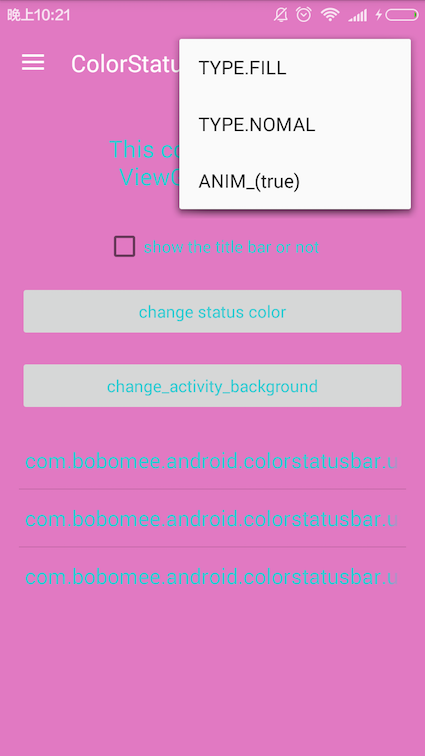
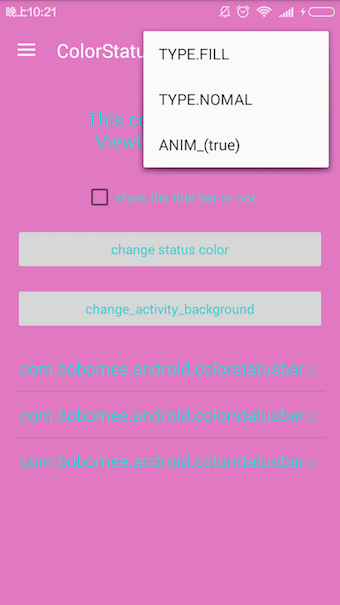
add alpha

diff --git a/colorstatus/src/main/java/com/bobomee/android/colorstatus/StatusBarUtils.java b/colorstatus/src/main/java/com/bobomee/android/colorstatus/StatusBarUtils.java
@@ -30,6 +30,7 @@ public class StatusBarUtils {
 
     private TYPE style = TYPE.NOMAL;
     private int color;
+    private int alpha;
 
     private ViewGroup root;
 
@@ -132,6 +133,11 @@ public class StatusBarUtils {
         return this;
     }
 
+    public StatusBarUtils setAlpha(int alpha) {
+        this.alpha = alpha;
+        return this;
+    }
+
     private void initStatusBar() {
 
         if (belowKitKat()) return;
@@ -140,13 +146,13 @@ public class StatusBarUtils {
             if (upL()) {
                 mActivity.getWindow().clearFlags(WindowManager.LayoutParams.FLAG_TRANSLUCENT_STATUS);
                 mActivity.getWindow().addFlags(WindowManager.LayoutParams.FLAG_DRAWS_SYSTEM_BAR_BACKGROUNDS);
-                mActivity.getWindow().setStatusBarColor(color);
+                mActivity.getWindow().setStatusBarColor(calculateStatusColor(color, alpha));
                 return;
             }
 
             if (upKitKat()) {
                 mActivity.getWindow().addFlags(WindowManager.LayoutParams.FLAG_TRANSLUCENT_STATUS);
-                View statusView = createStatusBarView(mActivity, color);
+                View statusView = createStatusBarView(mActivity, color, alpha);
                 //Prevent repeated additions
                 int c = root.getChildCount() - 1;
                 if (setMultipleColor(root, c)) return;
@@ -158,7 +164,7 @@ public class StatusBarUtils {
                 if (style == TYPE.NOMAL) {
                     mActivity.getWindow().addFlags(WindowManager.LayoutParams.FLAG_DRAWS_SYSTEM_BAR_BACKGROUNDS);
                     mActivity.getWindow().clearFlags(WindowManager.LayoutParams.FLAG_TRANSLUCENT_STATUS);
-                    mActivity.getWindow().setStatusBarColor(color);
+                    mActivity.getWindow().setStatusBarColor(calculateStatusColor(color, alpha));
                     return;
                 } else {
                     mActivity.getWindow().clearFlags(WindowManager.LayoutParams.FLAG_DRAWS_SYSTEM_BAR_BACKGROUNDS);
@@ -171,11 +177,11 @@ public class StatusBarUtils {
             }
 
             if (content instanceof MLinearLayout && style == TYPE.FILL) {
-                ((MLinearLayout) content).getChildAt(0).setBackgroundColor(color);
+                ((MLinearLayout) content).getChildAt(0).setBackgroundColor(calculateStatusColor(color, alpha));
                 return;
             }
 
-            View statusView = createStatusBarView(mActivity, color);
+            View statusView = createStatusBarView(mActivity, color, alpha);
             ViewGroup container = new MLinearLayout(mActivity);
             ((LinearLayout) container).setOrientation(LinearLayout.VERTICAL);
 
@@ -206,21 +212,36 @@ public class StatusBarUtils {
         }
     }
 
+    public int getColor() {
+        return color;
+    }
+
+    private static int calculateStatusColor(int color, int alpha) {
+        float a = 1 - alpha / 255f;
+        int red = color >> 16 & 0xff;
+        int green = color >> 8 & 0xff;
+        int blue = color & 0xff;
+        red = (int) (red * a + 0.5);
+        green = (int) (green * a + 0.5);
+        blue = (int) (blue * a + 0.5);
+        return 0xff << 24 | red << 16 | green << 8 | blue;
+    }
+
     private boolean setMultipleColor(ViewGroup view, int index) {
         View temp = view.getChildAt(index);
         if (null != temp && temp.getHeight() == getStatusBarHeight(mActivity)) {
-            temp.setBackgroundColor(color);
+            temp.setBackgroundColor(calculateStatusColor(color, alpha));
             return true;
         }
         return false;
     }
 
-    private View createStatusBarView(Activity activity, int color) {
+    private View createStatusBarView(Activity activity, int color, int alpha) {
         View statusBarView = new View(activity);
         LinearLayout.LayoutParams params = new LinearLayout.LayoutParams(ViewGroup.LayoutParams.MATCH_PARENT,
                 getStatusBarHeight(activity));
         statusBarView.setLayoutParams(params);
-        statusBarView.setBackgroundColor(color);
+        statusBarView.setBackgroundColor(calculateStatusColor(color, alpha));
         return statusBarView;
     }
 

diff --git a/app/src/main/java/com/bobomee/android/colorstatusbar/ui/BaseViewGroupDrawerLayout.java b/app/src/main/java/com/bobomee/android/colorstatusbar/ui/BaseViewGroupDrawerLayout.java
@@ -7,6 +7,7 @@ import android.widget.ArrayAdapter;
 import android.widget.CheckBox;
 import android.widget.CompoundButton;
 import android.widget.ListView;
+import android.widget.SeekBar;
 import android.widget.TextView;
 
 import com.bobomee.android.colorstatusbar.R;
@@ -22,6 +23,11 @@ public class BaseViewGroupDrawerLayout extends BaseBaseDrawerLayout implements A
 
     private CheckBox checkBox;
 
+    private SeekBar mSbChangeAlpha;
+    private TextView mTvStatusAlpha;
+
+    private int mAlpha = 112;
+
     protected String[] getListData() {
         return getResources().getStringArray(R.array.clz);
     }
@@ -31,6 +37,8 @@ public class BaseViewGroupDrawerLayout extends BaseBaseDrawerLayout implements A
         super.setContentView(layoutResID);
 
         listView = (ListView) findViewById(android.R.id.list);
+        mSbChangeAlpha = (SeekBar) findViewById(R.id.sb_change_alpha);
+        mTvStatusAlpha = (TextView) findViewById(R.id.tv_status_alpha);
 
         ArrayAdapter<String> arrayAdapter = new ArrayAdapter<String>(this,
                 R.layout.simple_list_item,
@@ -42,6 +50,27 @@ public class BaseViewGroupDrawerLayout extends BaseBaseDrawerLayout implements A
 
         checkBox = (CheckBox) findViewById(android.R.id.checkbox);
         checkBox.setOnCheckedChangeListener(this);
+
+        mSbChangeAlpha.setMax(255);
+        mSbChangeAlpha.setOnSeekBarChangeListener(new SeekBar.OnSeekBarChangeListener() {
+            @Override
+            public void onProgressChanged(SeekBar seekBar, int progress, boolean fromUser) {
+                mAlpha = progress;
+                setStatusBar(instance.getColor(), mAlpha);
+                mTvStatusAlpha.setText(String.valueOf(mAlpha));
+            }
+
+            @Override
+            public void onStartTrackingTouch(SeekBar seekBar) {
+
+            }
+
+            @Override
+            public void onStopTrackingTouch(SeekBar seekBar) {
+
+            }
+        });
+        mSbChangeAlpha.setProgress(mAlpha);
 
     }
 
@@ -64,16 +93,16 @@ public class BaseViewGroupDrawerLayout extends BaseBaseDrawerLayout implements A
             toolbar.setBackgroundColor(ranColor);
         }
 
-        setStatusBar(ranColor);
+        setStatusBar(ranColor, mAlpha);
     }
 
     public void changeBackground(View view) {
-        setStatusBar(getResources().getColor(android.R.color.transparent));
 
         Random random = new Random();
         int ranColor = 0xff000000 | random.nextInt(0x00ffffff);
 
         getWindow().getDecorView().setBackgroundColor(ranColor);
+        setStatusBar(ranColor, 0);
 
         if (toolbar.getVisibility() == View.VISIBLE) {
             toolbar.setBackgroundColor(getResources().getColor(android.R.color.transparent));

diff --git a/app/src/main/java/com/bobomee/android/colorstatusbar/ui/BaseBaseActivity.java b/app/src/main/java/com/bobomee/android/colorstatusbar/ui/BaseBaseActivity.java
@@ -20,6 +20,7 @@ public class BaseBaseActivity extends AppCompatActivity {
 
     protected String TAG = this.getClass().getSimpleName();
     private boolean isFill = true;
+    protected StatusBarUtils instance;
 
     @Override
     protected void onCreate(Bundle savedInstanceState) {
@@ -31,24 +32,25 @@ public class BaseBaseActivity extends AppCompatActivity {
     @Override
     public void setContentView(int layoutResID) {
         super.setContentView(layoutResID);
-        setStatusBar(getResources().getColor(R.color.colorPrimaryDark));
+        setStatusBar(getResources().getColor(R.color.colorPrimaryDark), 112);
     }
 
     @Override
     public void setContentView(View view) {
         super.setContentView(view);
-        setStatusBar(getResources().getColor(R.color.colorPrimaryDark));
+        setStatusBar(getResources().getColor(R.color.colorPrimaryDark), 112);
     }
 
     @Override
     public void setContentView(View view, ViewGroup.LayoutParams params) {
         super.setContentView(view, params);
-        setStatusBar(getResources().getColor(R.color.colorPrimaryDark));
+        setStatusBar(getResources().getColor(R.color.colorPrimaryDark), 112);
     }
 
-    protected void setStatusBar(int color) {
-        StatusBarUtils.instance(this).setColor(color).
-                setStyle(isFill ? StatusBarUtils.TYPE.FILL : StatusBarUtils.TYPE.NOMAL).init();
+    protected void setStatusBar(int color, int alpha) {
+        instance = StatusBarUtils.instance(this);
+        instance.setColor(color).
+                setStyle(isFill ? StatusBarUtils.TYPE.FILL : StatusBarUtils.TYPE.NOMAL).setAlpha(alpha).init();
 
     }
 

diff --git a/README.md b/README.md
@@ -9,7 +9,7 @@ Android 4.4以上实现Material Design风格的状态栏（包括变色状态栏
 <dependency>
   <groupId>com.bobomee.android</groupId>
   <artifactId>colorstatus</artifactId>
-  <version>1.0</version>
+  <version>1.1</version>
   <type>aar</type>
 </dependency>
 ```
@@ -17,10 +17,12 @@ Android 4.4以上实现Material Design风格的状态栏（包括变色状态栏
 - `gradle`
 
 ``` java
-compile 'com.bobomee.android:colorstatus:1.0@aar'
+compile 'com.bobomee.android:colorstatus:1.1@aar'
 ```
 
 ## ScreenShot
+
+![ColorStatusBar](screenshot/gif.gif "Sample")
 
 - Immersive
 
